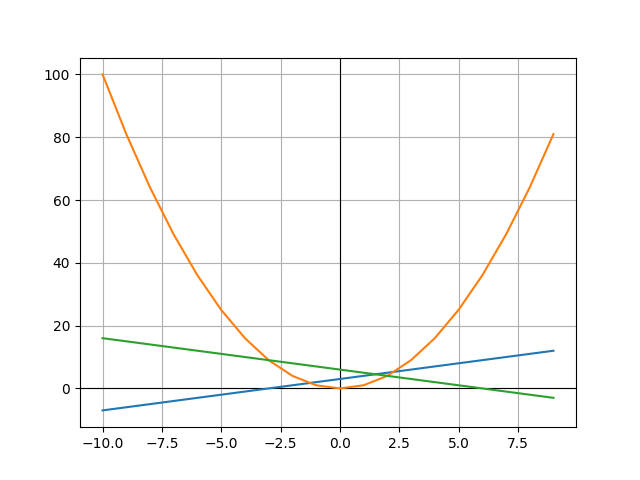
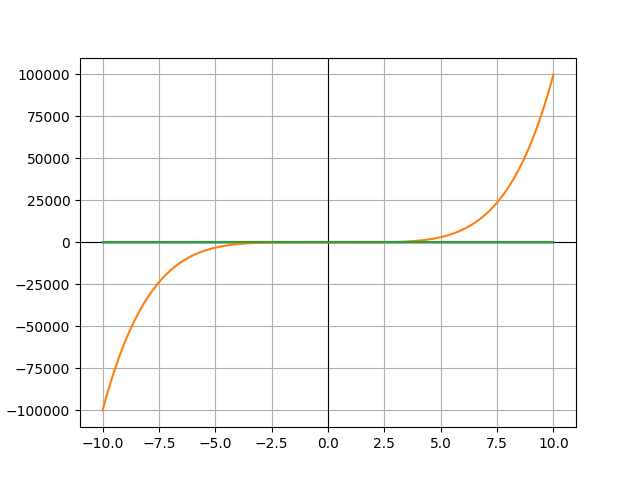
глобальный апгрейд бекэнда + фикс багов

diff --git a/templates/base.html b/templates/base.html
@@ -8,35 +8,41 @@
 <body>
     <p><img src="static/graf_picture.png" alt="хз лол"></p>
     <form action="/cr_graf1" method="post">
-        <input type="text" id="1" name="tbut1" placeholder="{{gr_1}}" style="margin:4px 0px 4px; position: absolute; top: 516px; left: 20px;"/>
+        <input type="text" id="1" name="tbut1" placeholder="{{gr_1}}" style="position: absolute; top: 100px; left: 650px;"/>
     </form>
     <form action="/cr_graf2" method="post">
-        <input type="text" id="2" name="tbut2" placeholder="{{gr_2}}" style="margin:4px 0px 4px; position: absolute; top: 556px; left: 20px;"/>
+        <input type="text" id="2" name="tbut2" placeholder="{{gr_2}}" style="position: absolute; top: 175px; left: 650px;"/>
     </form>
     <form action="/cr_graf3" method="post">
-        <input type="text" id="3" name="tbut3" placeholder="{{gr_3}}" style="margin:4px 0px 4px; position: absolute; top: 596px; left: 20px;"/>
+        <input type="text" id="3" name="tbut3" placeholder="{{gr_3}}" style="position: absolute; top: 250px; left: 650px;"/>
     </form>
 
-    <form action="/info__1" method="post">
-        <button id="4" name="infobut1" type="submit" style="position: absolute; top: 516px; left: 220px;">i</button>
-    </form>
-    {% autoescape false %}
-     <h3 style="visibility: {{vis_1}}; position: absolute; top: 496px; left: 270px;">{{info_1}}</h3>
-    {% endautoescape %}
-
-    <form action="/info__2" method="post">
-        <button id="5" name="infobut2" type="submit" style="position: absolute; top: 556px; left: 220px;">i</button>
+    <form action="/info" method="post">
+        <button id="4" name="infobut" type="submit" style="position: absolute; top: 100px; left: 900px;">i</button>
     </form>
     {% autoescape false %}
-     <h3 style="visibility: {{vis_2}}; position: absolute; top: 536px; left: 270px;">{{info_2}}</h3>
+     <h3 style="visibility: {{vis}}; position: absolute; top: 496px; left: 310px;">{{info}}</h3>
     {% endautoescape %}
 
-    <form action="/info__3" method="post">
-        <button id="6" name="infobut3" type="submit" style="position: absolute; top: 596px; left: 220px;">i</button>
-    </form>
-    {% autoescape false %}
-     <h3 style="visibility: {{vis_3}}; position: absolute; top: 576px; left: 270px;">{{info_3}}</h3>
-    {% endautoescape %}
+<!--    <form action="/settings__1" method="post">-->
+<!--        <button id="7" name="settbut1" type="submit" style="position: absolute; top: 100px; left: 860px;">⚙</button>-->
+<!--        <input type="range" id="8" name="border_1" min="3" max="10" value="{{val_1}}" style="visibility: {{vis_1_1}}; position: absolute; top: 516px; left: 310px;"/>-->
+<!--        <h3 style="visibility: {{vis_1_1}}; position: absolute; top: 496px; left: 292px;">3</h3>-->
+<!--        <h3 style="visibility: {{vis_1_1}}; position: absolute; top: 496px; left: 450px;">10</h3>-->
+<!--    </form>-->
 
+<!--    <form action="/settings__2" method="post">-->
+<!--        <button id="9" name="settbut2" type="submit" style="position: absolute; top: 556px; left: 220px;">⚙</button>-->
+<!--        <input type="range" id="10" name="border_2" min="3" max="10" value="{{val_2}}" style="visibility: {{vis_2_1}}; position: absolute; top: 556px; left: 310px;"/>-->
+<!--        <h3 style="visibility: {{vis_2_1}}; position: absolute; top: 536px; left: 292px;">3</h3>-->
+<!--        <h3 style="visibility: {{vis_2_1}}; position: absolute; top: 536px; left: 450px;">10</h3>-->
+<!--    </form>-->
+
+<!--    <form action="/settings__3" method="post">-->
+<!--        <button id="11" name="settbut3" type="submit" style="position: absolute; top: 596px; left: 220px;">⚙</button>-->
+<!--        <input type="range" id="12" name="border_3" min="3" max="10" value="{{val_3}}" style="visibility: {{vis_3_1}}; position: absolute; top: 596px; left: 310px;"/>-->
+<!--        <h3 style="visibility: {{vis_3_1}}; position: absolute; top: 576px; left: 292px;">3</h3>-->
+<!--        <h3 style="visibility: {{vis_3_1}}; position: absolute; top: 576px; left: 450px;">10</h3>-->
+<!--    </form>-->
 </body>
 </html>

diff --git a/main.py b/main.py
@@ -1,21 +1,22 @@
 import matplotlib
 import numpy as np
+import sympy
 from flask import *
 from sympy import *
+from sympy.calculus.util import function_range, continuous_domain
 import matplotlib.pyplot as plt
 import os
 
 matplotlib.use('Agg')
 
-vis_1 = "hidden"
-vis_2 = "hidden"
-vis_3 = "hidden"
+vis_1_1 = "hidden"
+vis_2_1 = "hidden"
+vis_3_1 = "hidden"
 
-info_1 = ""
-info_2 = ""
-info_3 = ""
+vis = "hidden"
 
 grafs = {1: "", 2: "", 3: ""}
+grafs_border = [(-5, 5), (-5, 5), (-5, 5)]
 app = Flask(__name__)
 
 
@@ -27,8 +28,13 @@ def create_graf():
     global grafs
     for i in range(len(grafs)):
         if grafs[i + 1] != "":
-            x_y = from_text_to_graf_arr(grafs[i + 1], -10, 10)
-            plt.plot(x_y[0], x_y[1])
+            func = grafs[i + 1]
+            x = np.linspace(-10, 10, 100)
+            y = eval(func)
+            plt.plot(x, y)
+            # border = grafs_border[i]
+            # x_y = from_text_to_graf_arr(grafs[i + 1], border[0], border[1])
+            # plt.plot(x_y[0], x_y[1])
     try:
         os.remove("static/graf_picture.png")
         plt.savefig("static/graf_picture")
@@ -39,17 +45,20 @@ def create_graf():
 @app.route('/')
 @app.route('/index')
 def index():
-    return render_template('base.html', vis_1=vis_1, vis_2=vis_2, vis_3=vis_3)
+    return render_template('base.html', gr_1=grafs[1], gr_2=grafs[2], gr_3=grafs[3], vis=vis)
 
 
-def from_text_to_graf_arr(text, border_neg, border_pos):
-    b_n, b_p = border_neg, border_pos
-    x_lst, y_lst = [i for i in range(b_n, b_p)], []
-    for i in range(b_n, b_p):
-        t = text.replace("x", f"({str(i)})")
-        y = eval(t)
-        y_lst.append(y)
-    return x_lst, y_lst
+# def from_text_to_graf_arr(text, border_neg, border_pos):
+#     b_n, b_p = border_neg, border_pos
+#     x_lst, y_lst = [i for i in range(b_n, b_p)], []
+#     for i in range(b_n, b_p):
+#         t = text.replace("x", f"({str(i)})")
+#         try:
+#             y = eval(t)
+#         except ZeroDivisionError:
+#             pass
+#         y_lst.append(y)
+#     return x_lst, y_lst
 
 
 @app.route('/cr_graf1', methods=["post", "get"])
@@ -57,8 +66,7 @@ def cr_gr1():
     a = request.form["tbut1"]
     grafs[1] = a
     create_graf()
-    return render_template('base.html', gr_1=grafs[1], gr_2=grafs[2], gr_3=grafs[3], vis_1=vis_1, vis_2=vis_2, vis_3=vis_3,
-                           info_1=info_1, info_2=info_2, info_3=info_3)
+    return render_template('base.html', gr_1=grafs[1], gr_2=grafs[2], gr_3=grafs[3], vis=vis)
 
 
 @app.route('/cr_graf2', methods=["post", "get"])
@@ -66,8 +74,7 @@ def cr_gr2():
     b = request.form["tbut2"]
     grafs[2] = b
     create_graf()
-    return render_template('base.html', gr_1=grafs[1], gr_2=grafs[2], gr_3=grafs[3], vis_1=vis_1, vis_2=vis_2, vis_3=vis_3,
-                           info_1=info_1, info_2=info_2, info_3=info_3)
+    return render_template('base.html', gr_1=grafs[1], gr_2=grafs[2], gr_3=grafs[3], vis=vis)
 
 
 @app.route('/cr_graf3', methods=["post", "get"])
@@ -75,87 +82,146 @@ def cr_gr3():
     c = request.form["tbut3"]
     grafs[3] = c
     create_graf()
-    return render_template('base.html', gr_1=grafs[1], gr_2=grafs[2], gr_3=grafs[3], vis_1=vis_1, vis_2=vis_2, vis_3=vis_3,
-                           info_1=info_1, info_2=info_2, info_3=info_3)
+    return render_template('base.html', gr_1=grafs[1], gr_2=grafs[2], gr_3=grafs[3], vis=vis)
 
 
-@app.route("/info__1", methods=["post", "get"])
-def info__1():
-    global vis_1, info_1
-    vis_1, info_1 = info(vis_1, info_1, grafs[1], grafs[2], grafs[3], 1, 2, 3)
-    return render_template('base.html', gr_1=grafs[1], gr_2=grafs[2], gr_3=grafs[3], vis_1=vis_1, vis_2=vis_2, vis_3=vis_3,
-                           info_1=info_1, info_2=info_2, info_3=info_3)
+# @app.route("/settings__1", methods=["post", "get"])
+# def sett__1():
+#     global vis_1, vis_1_1, grafs_border
+#     vis_1 = "hidden"
+#     if vis_1_1 == "hidden":
+#         vis_1_1 = "visibility"
+#     else:
+#         vis_1_1 = "hidden"
+#         # print(request.form["border_1"], grafs_border)
+#         grafs_border[0] = (-int(request.form["border_1"]), int(request.form["border_1"]))
+#         # print(request.form["border_1"], grafs_border)
+#     return render_template('base.html', gr_1=grafs[1], gr_2=grafs[2], gr_3=grafs[3], vis=vis)
 
 
-@app.route("/info__2", methods=["post", "get"])
-def info__2():
-    global vis_2, info_2
-    vis_2, info_2 = info(vis_2, info_2, grafs[2], grafs[1], grafs[3], 2, 1, 3)
-    return render_template('base.html', gr_1=grafs[1], gr_2=grafs[2], gr_3=grafs[3], vis_1=vis_1, vis_2=vis_2, vis_3=vis_3,
-                           info_1=info_1, info_2=info_2, info_3=info_3)
+# @app.route("/settings__2", methods=["post", "get"])
+# def sett__2():
+#     global vis_2, vis_2_1, grafs_border
+#     vis_2 = "hidden"
+#     if vis_2_1 == "hidden":
+#         vis_2_1 = "visibility"
+#     else:
+#         vis_2_1 = "hidden"
+#         # print(request.form["border_1"], grafs_border)
+#         grafs_border[1] = (-int(request.form["border_2"]), int(request.form["border_2"]))
+#         # print(request.form["border_1"], grafs_border)
+#     return render_template('base.html', gr_1=grafs[1], gr_2=grafs[2], gr_3=grafs[3], vis_1=vis_1, vis_2=vis_2,
+#                            vis_3=vis_3,
+#                            info_1=info_1, info_2=info_2, info_3=info_3, vis_1_1=vis_1_1, vis_2_1=vis_2_1,
+#                            vis_3_1=vis_3_1, val_1=grafs_border[0][1], val_2=grafs_border[1][1],
+#                            val_3=grafs_border[2][1])
+#
+#
+# @app.route("/settings__3", methods=["post", "get"])
+# def sett__3():
+#     global vis_3, vis_3_1, grafs_border
+#     vis_3 = "hidden"
+#     if vis_3_1 == "hidden":
+#         vis_3_1 = "visibility"
+#     else:
+#         vis_3_1 = "hidden"
+#         # print(request.form["border_1"], grafs_border)
+#         grafs_border[2] = (-int(request.form["border_3"]), int(request.form["border_3"]))
+#         # print(request.form["border_1"], grafs_border)
+#     return render_template('base.html', gr_1=grafs[1], gr_2=grafs[2], gr_3=grafs[3], vis_1=vis_1, vis_2=vis_2,
+#                            vis_3=vis_3,
+#                            info_1=info_1, info_2=info_2, info_3=info_3, vis_1_1=vis_1_1, vis_2_1=vis_2_1,
+#                            vis_3_1=vis_3_1, val_1=grafs_border[0][1], val_2=grafs_border[1][1],
+#                            val_3=grafs_border[2][1])
 
 
-@app.route("/info__3", methods=["post", "get"])
-def info__3():
-    global vis_3, info_3
-    vis_3, info_3 = info(vis_3, info_3, grafs[3], grafs[1], grafs[2], 3, 1, 2)
-    return render_template('base.html', gr_1=grafs[1], gr_2=grafs[2], gr_3=grafs[3], vis_1=vis_1, vis_2=vis_2, vis_3=vis_3,
-                           info_1=info_1, info_2=info_2, info_3=info_3)
+# функция для всей инфы
+@app.route("/info", methods=["post", "get"])
+def info_():
+    info = ""
+    f1 = grafs[1]
+    f2 = grafs[2]
+    f3 = grafs[3]
+    info += f"Точка пересечения(1 - 2): {points_per(f1, f2)}\n"
+    info += f"Точка пересечения(1 - 3): {points_per(f1, f3)}\n"
+    info += f"Точка пересечения(2 - 3): {points_per(f2, f3)}\n"
+    info += "\n"
+
+    info += f"Область определения функции 1: {domain_x(f1)}\n"
+    info += f"Область определения функции 2: {domain_x(f2)}\n"
+    info += f"Область определения функции 3: {domain_x(f3)}\n"
+    info += "\n"
+
+    info += f"Область значений функции 1: {domain_y(f1)}\n"
+    info += f"Область значений функции 2: {domain_y(f2)}\n"
+    info += f"Область значений функции 3: {domain_y(f3)}\n"
+    info += "\n"
+
+    info += f"Производная функции 1: {derivative(f1)}\n"
+    info += f"Производная функции 2: {derivative(f2)}\n"
+    info += f"Производная функции 3: {derivative(f3)}\n"
+    info += "\n"
+
+    info += f"первообразная функции 1: {antiderivative(f1)}\n"
+    info += f"первообразная функции 2: {antiderivative(f2)}\n"
+    info += f"первообразная функции 3: {antiderivative(f3)}\n"
+    print(info)
+    return render_template('base.html', gr_1=grafs[1], gr_2=grafs[2], gr_3=grafs[3], vis=vis)
 
 
-def info(vis, info, main_g, g_a, g_b, main_g_num, a_g_num, b_g_num):
-    if vis == "hidden":
-        vis = "visibility"
-    else:
-        vis = "hidden"
-    poi_1 = []
-    poi_2 = []
+def points_per(f, f_):
     try:
-        for i in range(len(find_poi_x(main_g, g_a))):
-            poi_1.append((find_poi_x(main_g, g_a)[i], find_poi_y(find_poi_x(main_g, g_a), main_g)[i]))
-    except:
-        pass
-    try:
-        for ii in range(len(find_poi_x(main_g, g_b))):
-            poi_2.append((find_poi_x(main_g, g_b)[ii], find_poi_y(find_poi_x(main_g, g_b), main_g)[ii]))
-    except:
-        pass
-    # print(poi_1)
-    # print(poi_2)
-    info = f'y{main_g_num} ∩ y{a_g_num} = '
-    for j in range(len(poi_1)):
-        info = info + str(poi_1[j])
-        if j + 1 <= len(poi_1) - 1:
-            info = info + ";  "
-    info = info + "\n" + f'y{main_g_num} ∩ y{b_g_num} = '
-
-    for jj in range(len(poi_2)):
-        info = info + str(poi_2[jj])
-        if jj + 1 <= len(poi_1) - 1:
-            info = info + ";  "
-    # print(info)
-    info = info.replace('\n', '<br>')
-    return vis, info
-
-
-def find_poi_x(eq1, eq2):
-    if eq1 != '' and eq2 != '':
-        x = symbols("x")
-        equation = sympify("Eq(" + str(eq1) + "," + str(eq2) + ")")
-        solution = solve(equation, x)
-        return solution
-    return None
-
-
-def find_poi_y(points, eq1):
-    y_points = []
-    for i in range(len(points)):
         x, y = symbols('x y')
-        x_eq = eq1.replace("x", f"({points[i]})")
-        equation = sympify("Eq(" + str(y) + "," + x_eq + ")")
-        solution = solve(equation, y)
-        y_points.append(*solution)
-    return y_points
+        f = f
+        f_ = f_
+        func = eval(f)
+        func_ = eval(f_)
+        equation = Eq(func, func_)
+        intersection_x = solve(equation, x)[0]  # Находим x
+        intersection_y = func.subs(x, intersection_x)
+    except:
+        return None, None
+    return intersection_x, intersection_y
+
+
+def domain_x(f):
+    try:
+        x = sympy.symbols('x')
+        func = eval(f)
+        domain = continuous_domain(func, x, S.Reals)
+    except:
+        return None
+    return domain
+
+
+def domain_y(f):
+    try:
+        x = sympy.symbols('x')
+        func = eval(f)
+        domain = function_range(func, x, S.Reals)
+    except:
+        return None
+    return domain
+
+
+def derivative(f):
+    try:
+        x = sympy.symbols('x')
+        func = eval(f)
+        f_prime = sympy.diff(f, x)
+    except:
+        return None
+    return f_prime
+
+
+def antiderivative(f):
+    try:
+        x = symbols("x")
+        func = eval(f)
+        antiderivative = integrate(func, x)
+    except:
+        return None
+    return antiderivative
 
 
 if __name__ == '__main__':
